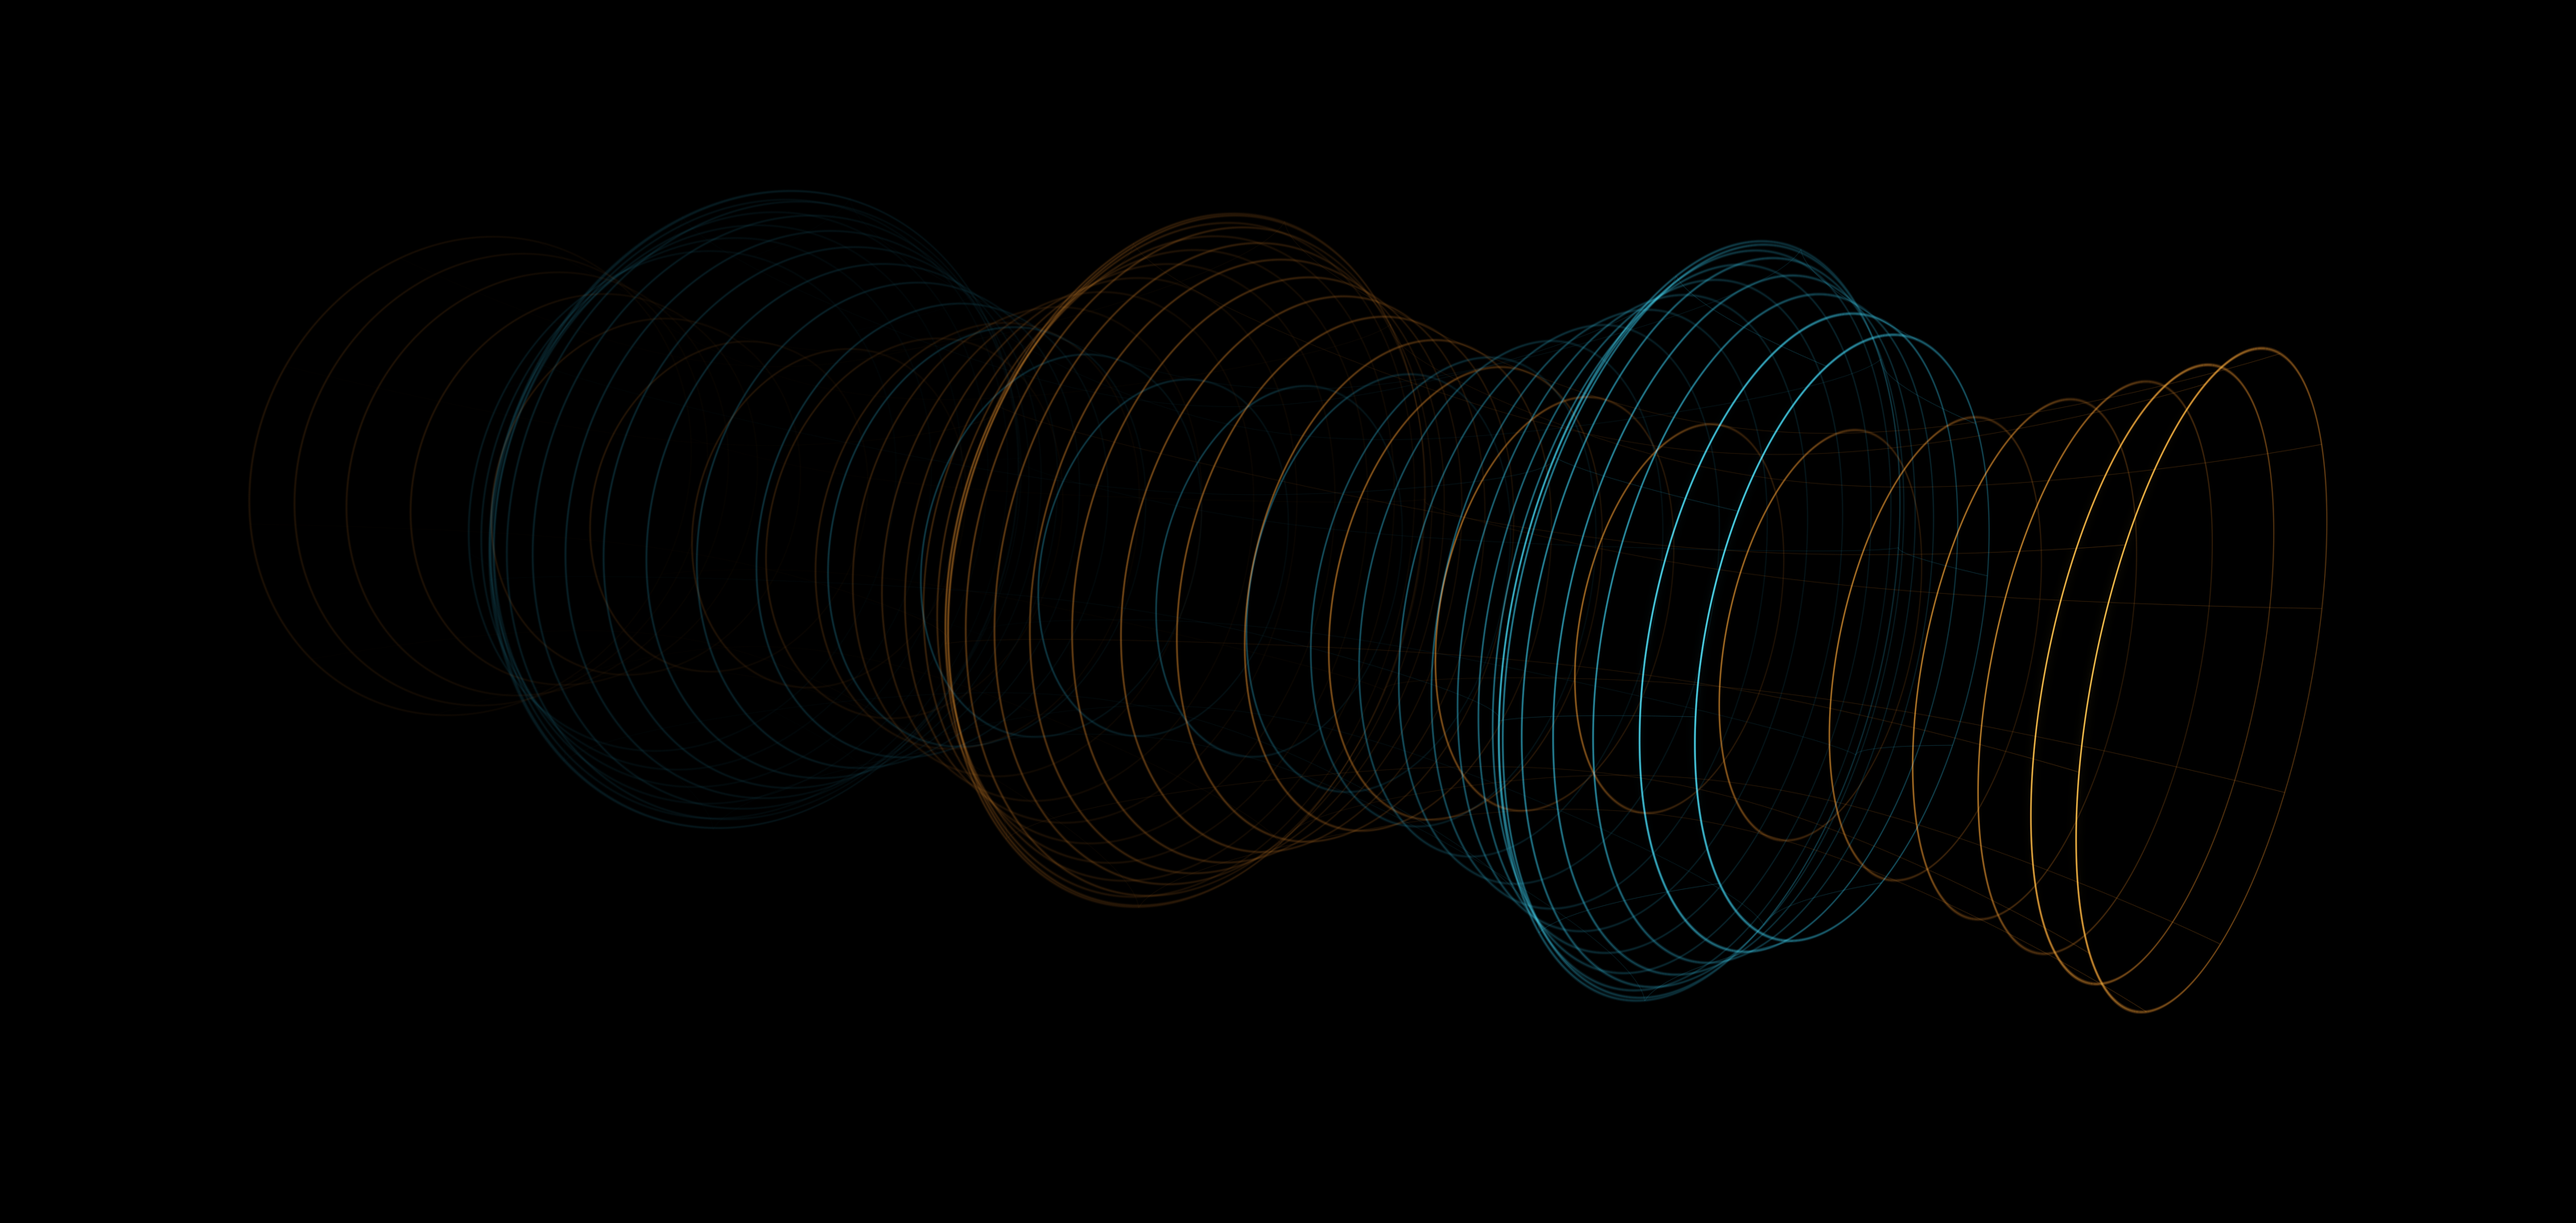
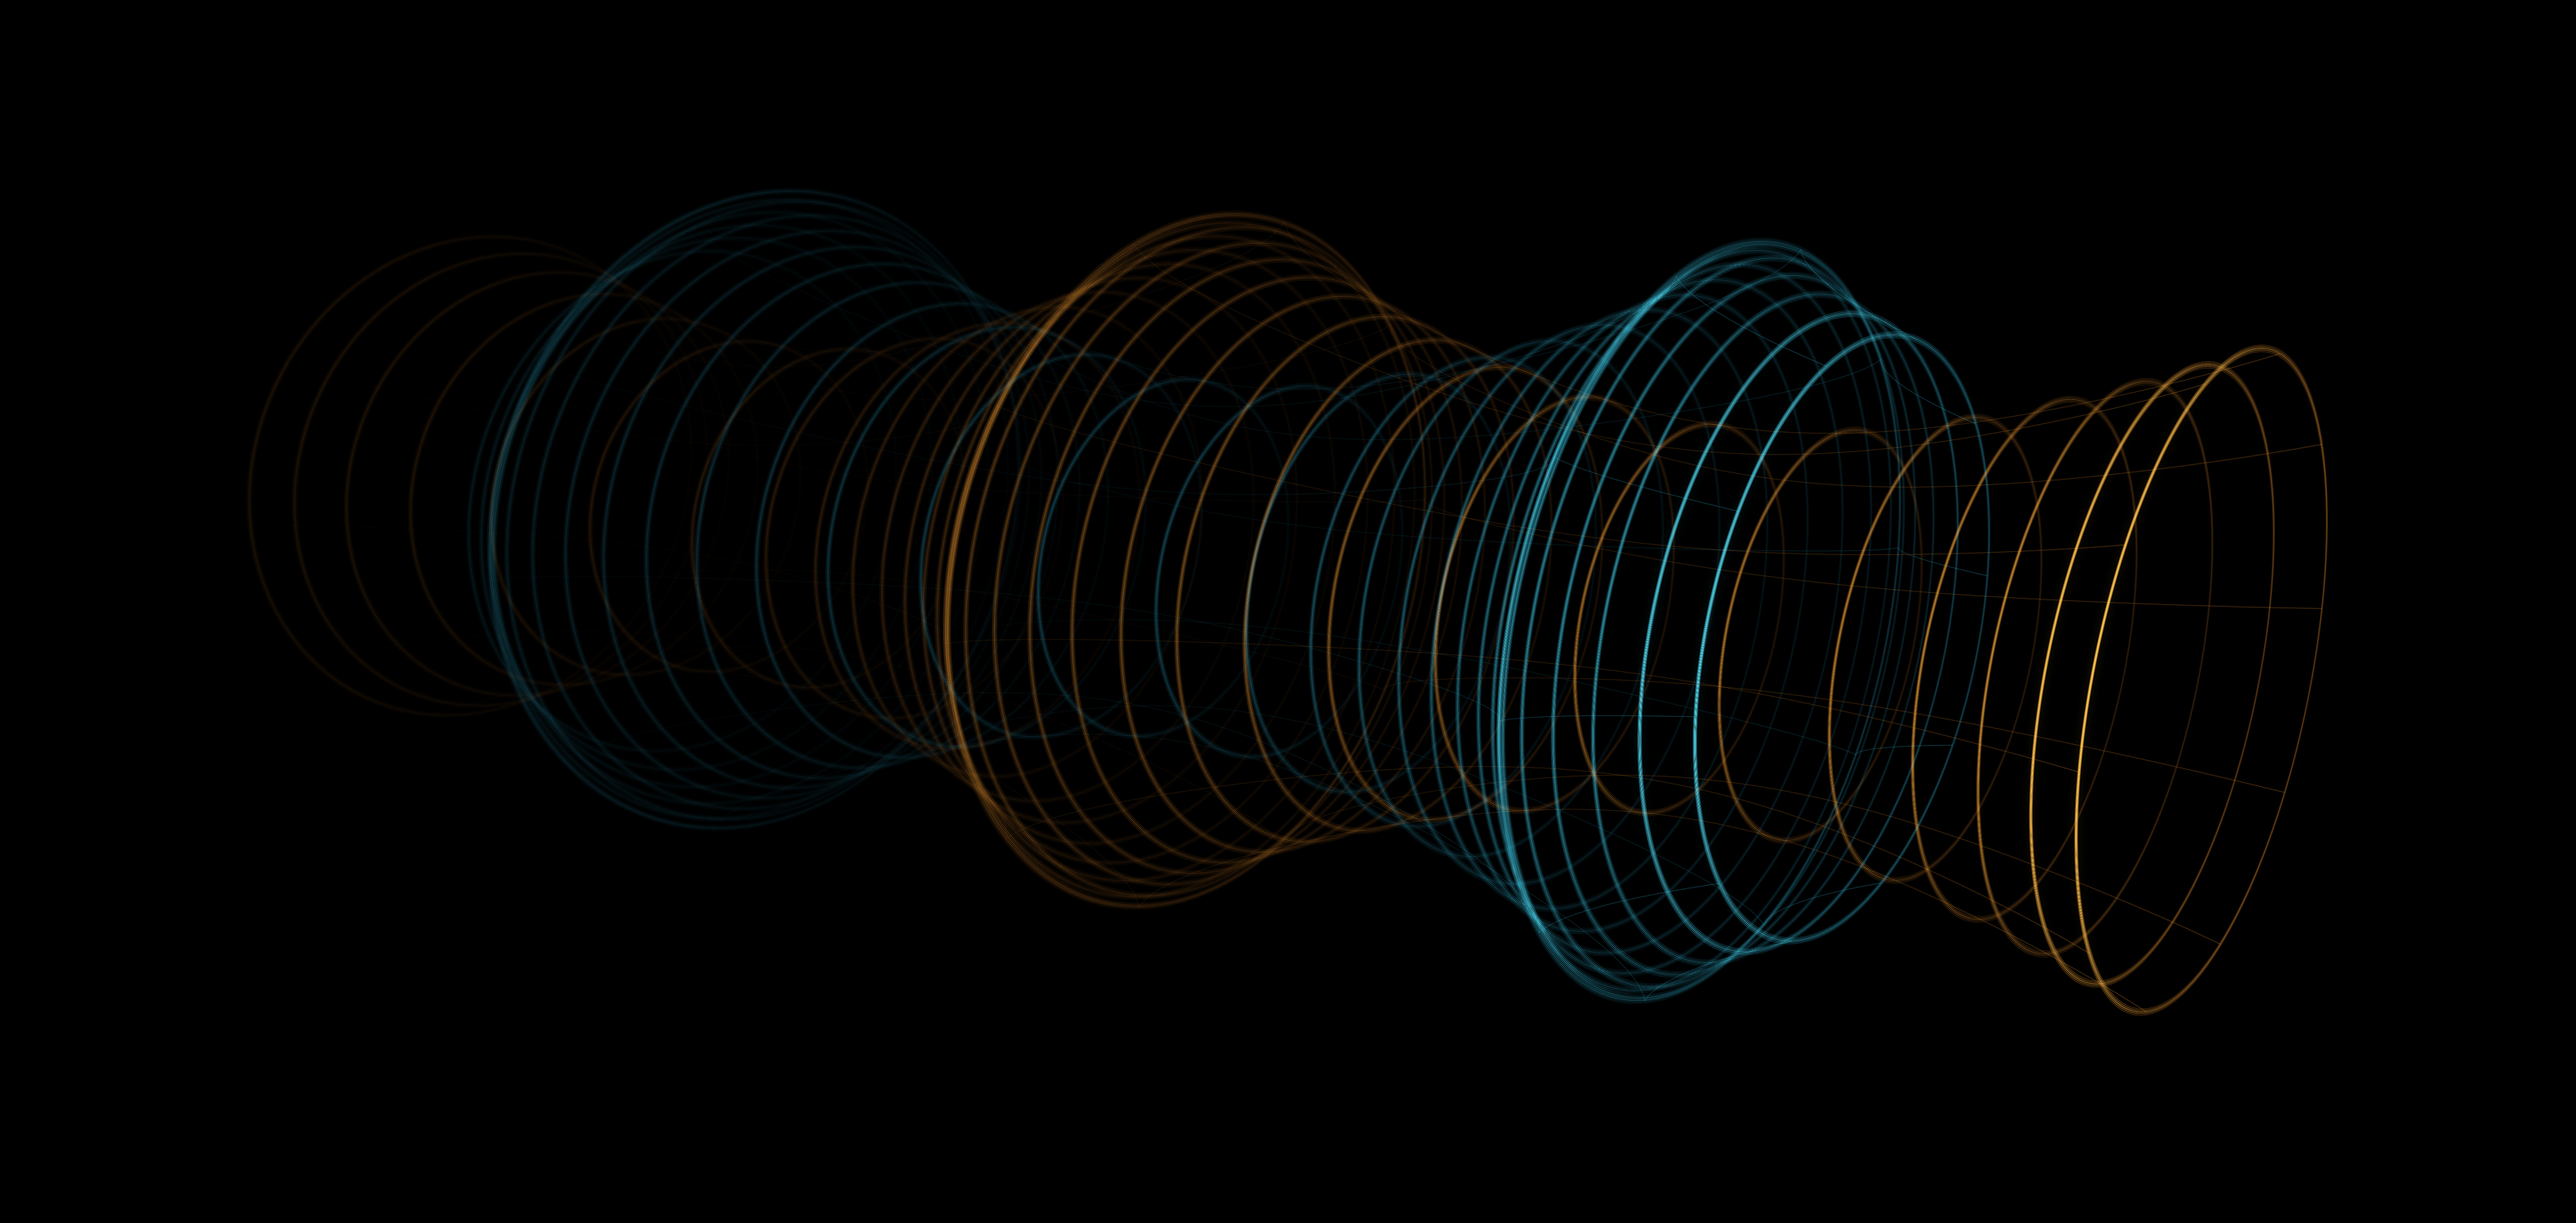
Final renders: Sun of Nothing 4096 hero + Braid of Rings; contact sheet tool
Claude-Session: https://claude.ai/code/session_016azBptW9jdduzAUtd66L7b

diff --git a/art_hiny/contact.py b/art_hiny/contact.py
@@ -1,0 +1,22 @@
+"""Assemble a contact sheet of the three finals for cohesion judgement."""
+import numpy as np
+from PIL import Image
+
+panels = ["final/sun_of_nothing_4096.png",
+          "final/braid_of_rings_3200.png",
+          "final/loss_families_2560.png"]
+TH = 640
+ims = []
+for p in panels:
+    im = Image.open(p)
+    w = int(im.width * TH / im.height)
+    ims.append(im.resize((w, TH), Image.LANCZOS))
+gap = 24
+Wt = sum(im.width for im in ims) + gap * (len(ims) + 1)
+sheet = Image.new("RGB", (Wt, TH + 2 * gap), (8, 8, 10))
+x = gap
+for im in ims:
+    sheet.paste(im, (x, gap))
+    x += im.width + gap
+sheet.save("proto/contact_sheet.png")
+print("saved proto/contact_sheet.png", sheet.size)

diff --git a/art_hiny/rings_expo.py b/art_hiny/rings_expo.py
@@ -103,7 +103,8 @@ for k, fi in enumerate(eidx):
         wseg = BASE * bright[k] * (shade[:-1] + shade[1:]) * 0.5
         hue = HUES[i] * (1.0 + 0.8 * (k >= NEXPO - 2))
         # soft multi-stroke for body
-        for off, ow in ((-2.4, 0.10), (-1.2, 0.22), (0.0, 0.40), (1.2, 0.22), (2.4, 0.10)):
+        SCL = W / 3200.0
+        for off, ow in ((-2.4*SCL, 0.10), (-1.2*SCL, 0.22), (0.0, 0.40), (1.2*SCL, 0.22), (2.4*SCL, 0.10)):
             rr = (R[fi, i] * s0 + off * SS)
             Y2 = rr * np.cos(th); Z2 = rr * np.sin(th)
             px2, py2, f2 = project(np.full(NTH, cx3), Y2, Z2)
